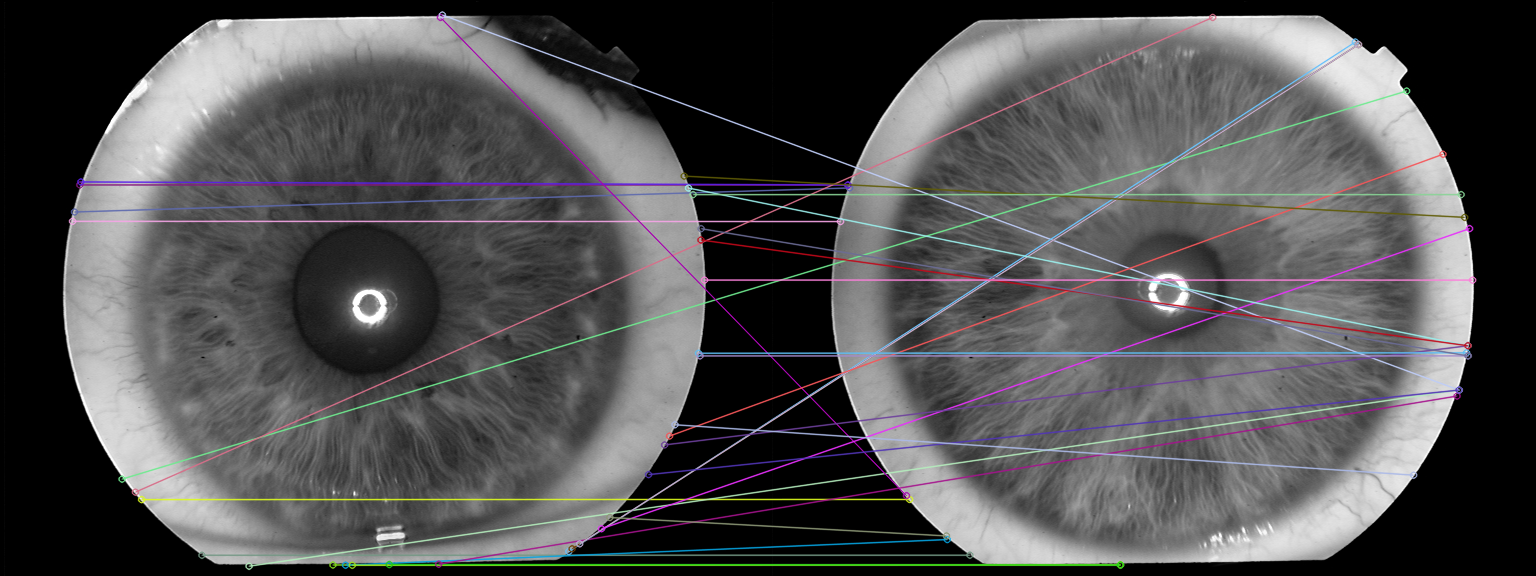
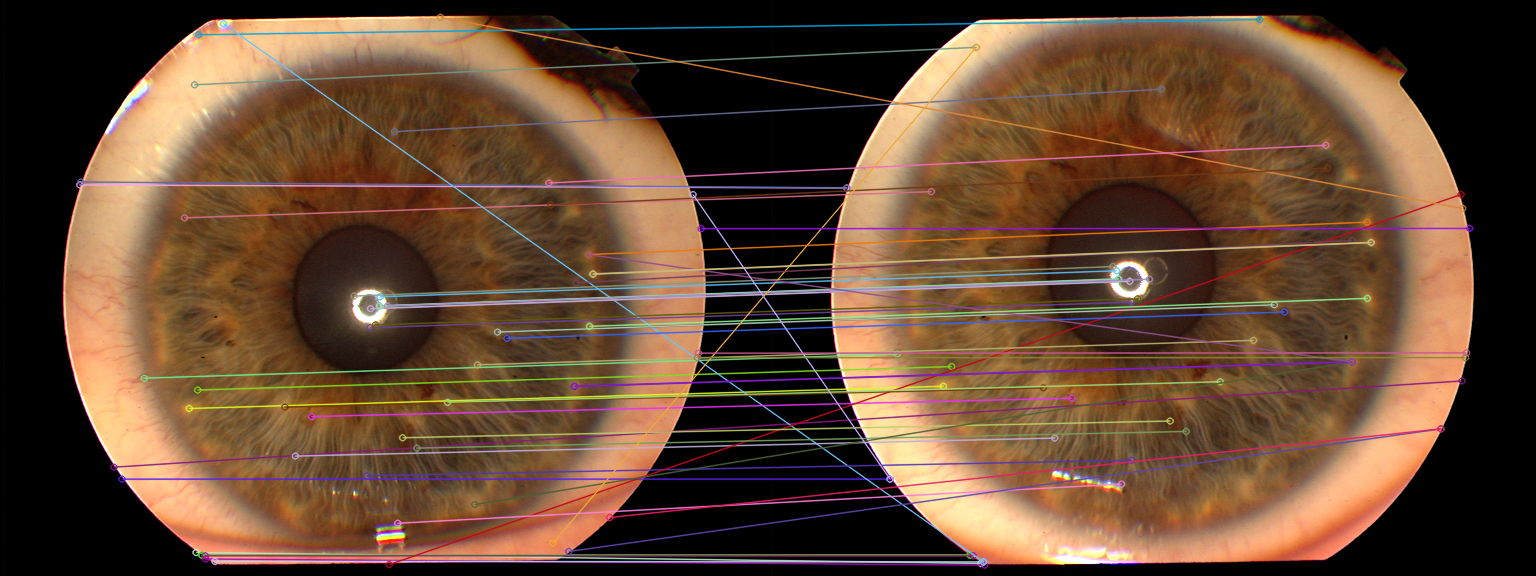
yessssssssssssss

diff --git a/concrete.py b/concrete.py
@@ -11,12 +11,12 @@ def extract_sift_features(image):
     keypoints, descriptors = sift.detectAndCompute(image, None)
     return keypoints, descriptors
 
-def match_features(probleme_d, database_d, threshold=50):
-    bf = cv2.BFMatcher(cv2.NORM_L2)
-    matches = bf.match(probleme_d, database_d)
+def match_features(probleme_d, database_d, ration_distance=0.75):
+    bf = cv2.BFMatcher()
+    matches = bf.knnMatch(probleme_d, database_d, k=2)
     good_matches = []
-    for m in matches:
-        if m.distance < threshold:
+    for m, n in matches:
+        if m.distance < ration_distance* n.distance:
             good_matches.append(m)
     return good_matches
 
@@ -42,8 +42,8 @@ def home():
 def solution():
 # Paramètres
     
-    SEUIL = 20  # Ajustez le seuil selon vos besoins
-    probleme_c = cv2.imread("workspace/probleme.png",0)
+    SEUIL = 40  # Ajustez le seuil selon vos besoins
+    probleme_c = cv2.imread("workspace/probleme.png",1)
     # Base de données d'images
     database_images = []
     for file in sorted(os.listdir("database1")):
@@ -57,7 +57,7 @@ def solution():
     max_matches = 0
 
     for database in database_images:
-        database_c = cv2.imread(database,0)
+        database_c = cv2.imread(database,1)
         database_k, database_d = extract_sift_features(database_c)
         
         matches = match_features(probleme_d, database_d)

diff --git a/testGPT.py b/testGPT.py
@@ -8,7 +8,7 @@ def extract_sift_features(image):
     keypoints, descriptors = sift.detectAndCompute(image, None)
     return keypoints, descriptors
 
-def match_features(probleme_d, database_d, threshold=50):
+def match_features(probleme_d, database_d, threshold=150):
     bf = cv2.BFMatcher(cv2.NORM_L2)
     matches = bf.match(probleme_d, database_d)
     good_matches = []
@@ -28,7 +28,7 @@ for file in sorted(os.listdir("database1")):
     database_images.append(os.path.join("database1", file))
 
 # Chemin vers l'image requête
-probleme = "013L_1.png"  
+probleme = "009L_3.png"  
 
 
 probleme_c = cv2.imread(probleme,0)
